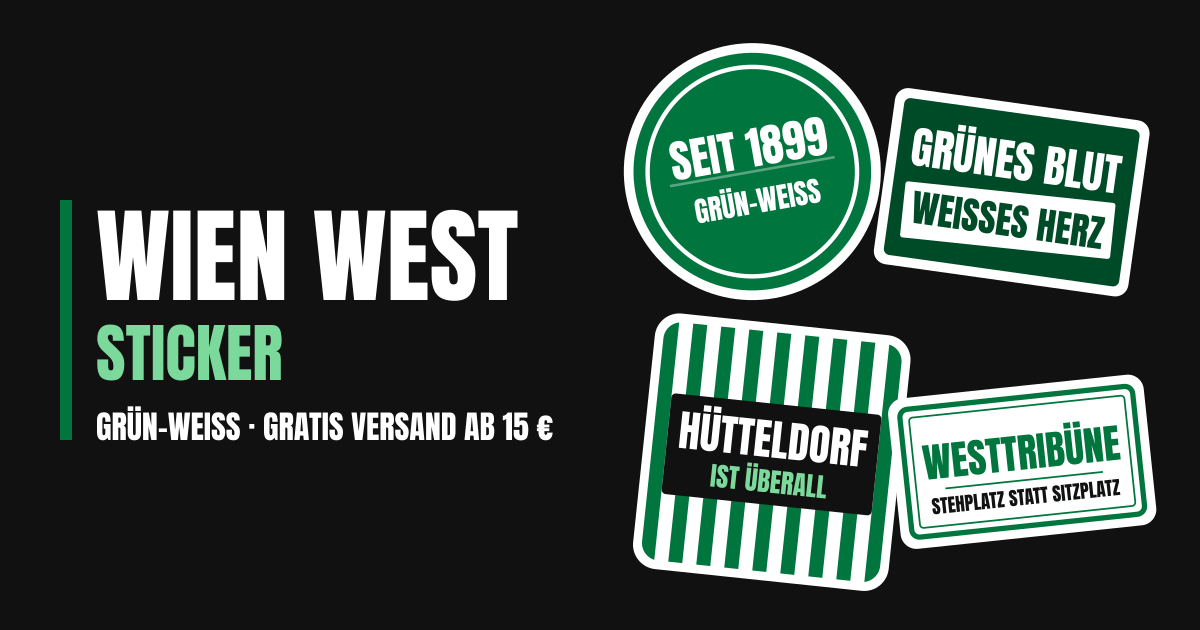
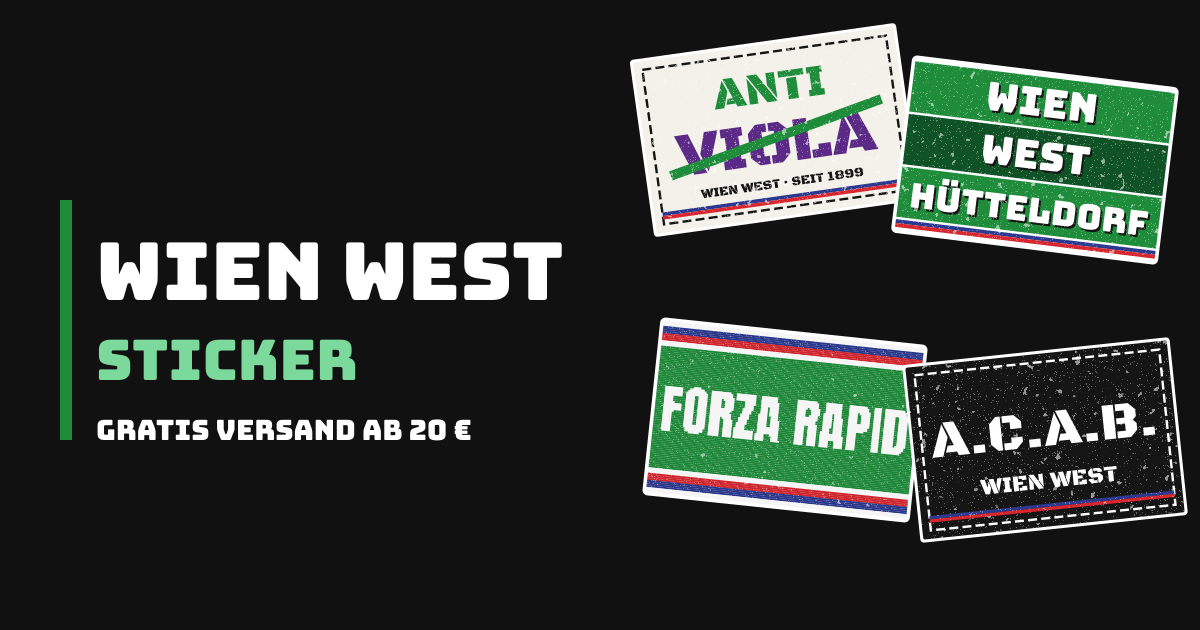
Gratis-Versand ab 20 €, 10er Mix-Pack 20 €
Claude-Session: https://claude.ai/code/session_01FF2MfsrsB5CXejmzawvVj5

diff --git a/src/data/seo.ts b/src/data/seo.ts
@@ -6,7 +6,7 @@ export const KATEGORIE_SEITEN = [
     slug: 'anti-viola-sticker',
     h1: 'Anti Viola Sticker',
     title: 'Anti Viola Sticker & Derby-Aufkleber kaufen | Wien West Sticker',
-    description: 'Anti Viola, Anti Violett, Wien gehört uns & A.C.A.B.: wetterfeste Derby-Sticker 9 × 6 cm ab 2,50 €. Violett immer durchgestrichen. Gratis Versand ab 15 €.',
+    description: 'Anti Viola, Anti Violett, Wien gehört uns & A.C.A.B.: wetterfeste Derby-Sticker 9 × 6 cm ab 2,50 €. Violett immer durchgestrichen. Gratis Versand ab 20 €.',
     keyword: 'anti viola sticker',
     intro: [
       'Vor jedem Wiener Derby wird in Hütteldorf geklebt. Unsere Anti-Viola-Sticker sind dafür gemacht: flacher Siebdruck-Look, Schablonen-Schrift und Violett immer durchgestrichen. Alle Motive kommen im selben Format von 9 × 6 cm, auf wetterfestem Vinyl mit matter Laminierung.',
@@ -22,7 +22,7 @@ export const KATEGORIE_SEITEN = [
     slug: 'forza-rapid-sticker',
     h1: 'Forza Rapid Sticker',
     title: 'Forza Rapid Sticker & Rapid Wien Aufkleber kaufen | Wien West',
-    description: 'Forza Rapid, Rapid Wien, SCR 1899 & You’ll never walk alone: Fan-Sticker im Strick-Schal- und Block-Look, 9 × 6 cm, wetterfest. Gratis Versand ab 15 €.',
+    description: 'Forza Rapid, Rapid Wien, SCR 1899 & You’ll never walk alone: Fan-Sticker im Strick-Schal- und Block-Look, 9 × 6 cm, wetterfest. Gratis Versand ab 20 €.',
     keyword: 'rapid wien sticker',
     intro: [
       'Forza Rapid – der Schlachtruf als Sticker. In dieser Kategorie findest du die Klassiker für alle Grün-Weißen: Strick-Schal-Optik wie der Schal im Kasten, fette Block-Buchstaben auf grünen Streifen und Sprühlack-Schrift mit Farbnasen.',
@@ -70,11 +70,11 @@ export const KATEGORIE_SEITEN = [
     slug: 'sticker-packs',
     h1: 'Sticker-Packs & Sets',
     title: 'Fußball Sticker Pack & Sticker Set kaufen – bis −61 % | Wien West',
-    description: 'Sticker-Packs mit 3, 5, 10, 15, 25 oder 50 Stück: gemischte Grün-Weiß-Motive ab 0,98 € pro Sticker. Das 10er Mix-Pack um 15 € mit Gratis-Versand.',
+    description: 'Sticker-Packs mit 3, 5, 10, 15, 25 oder 50 Stück: gemischte Grün-Weiß-Motive ab 0,98 € pro Sticker. Das 10er Mix-Pack um 20 € mit Gratis-Versand.',
     keyword: 'sticker pack fußball',
     intro: [
       'Mehr kleben, weniger zahlen: Unsere Sticker-Packs mischen die beliebtesten Motive in einem Kuvert. Ideal zum Aufteilen im Bus, am Stammtisch oder im Fanclub.',
-      'Das 10er Mix-Pack kostet 15 € und liegt damit genau an der Grenze zum Gratis-Versand. Beim 50er Block-Pack zahlst du weniger als 1 € pro Sticker.',
+      'Das 10er Mix-Pack kostet 20 € und liegt damit genau an der Grenze zum Gratis-Versand. Beim 50er Block-Pack zahlst du weniger als 1 € pro Sticker.',
     ],
     faq: [
       ['Welche Motive sind in den Packs?', 'Eine Mischung aus allen Kategorien – Anti Viola, Forza Rapid, Wien West Hütteldorf und Kurve. Beim Mystery-Pack werden die Motive zufällig gezogen.'],

diff --git a/docs/kalkulation.md b/docs/kalkulation.md
@@ -10,7 +10,7 @@ Alle Kosten sind **Schätzungen** – vor Start mit Druckerei- und Post-Angebot 
 | Flaggen-Format 9 × 6 cm / Figur 8 × 8 cm | 2,50 € |
 | Schal/Schild-Format 15 × 5 cm | 3,90 € |
 | Mindestbestellwert | 10 € (= 4 Sticker) |
-| Versand AT | 2,90 €, **gratis ab 15 €** |
+| Versand AT | 2,90 €, **gratis ab 20 €** |
 | Versand DE/EU | 4,90 €, gratis ab 30 € |
 | Mengenrabatt Einzel/Groß | ab 5 Stk −10 %, ab 10 Stk −20 % |
 
@@ -20,12 +20,12 @@ Alle Kosten sind **Schätzungen** – vor Start mit Druckerei- und Post-Angebot 
 |---|---|---|---|---|
 | 3er Starter | 6,90 | 7,50 | 8 % | 2,30 |
 | 5er Topseller | 9,90 | 12,50 | 21 % | 1,98 |
-| **10er Mix** | **15,00** | 25,00 | 40 % | 1,50 |
+| **10er Mix** | **20,00** | 25,00 | 20 % | 2,00 |
 | Mystery 15er | 19,00 | 37,50 | 49 % | 1,27 |
 | 25er Kurve | 29,00 | 62,50 | 54 % | 1,16 |
 | 50er Block | 49,00 | 125,00 | 61 % | 0,98 |
 
-Das 10er Mix-Pack liegt exakt auf der Gratis-Versand-Grenze → Hauptprodukt in Hero, Packs-Sektion und Abschluss-CTA.
+Das 10er Mix-Pack (20 €) liegt exakt auf der Gratis-Versand-Grenze (20 €) → Hauptprodukt in Hero, Packs-Sektion und Abschluss-CTA.
 
 ## Stückkosten (Annahmen)
 
@@ -42,7 +42,7 @@ Das 10er Mix-Pack liegt exakt auf der Gratis-Versand-Grenze → Hauptprodukt in 
 | Warenkorb | Kunde zahlt | Netto (÷1,2) | Druck | Verpackung + Porto | Zahlung | **DB** |
 |---|---|---|---|---|---|---|
 | 4 Einzel (MBW) | 10,00 + 2,90 = 12,90 | 10,75 | 1,00 | 2,15 | 0,67 | **6,93 €** |
-| 10er Mix-Pack | 15,00 (gratis Versand) | 12,50 | 2,50 | 2,15 | 0,74 | **7,11 €** |
+| 10er Mix-Pack | 20,00 (gratis Versand) | 16,67 | 2,50 | 2,15 | 0,88 | **11,14 €** |
 | 10 Einzel (−20 %) | 20,00 | 16,67 | 2,50 | 2,15 | 0,88 | **11,14 €** |
 | 25er Kurven-Pack | 29,00 | 24,17 | 6,25 | 2,15 | 1,14 | **14,63 €** |
 | 50er Block-Pack | 49,00 | 40,83 | 12,50 | 2,15 | 1,72 | **24,46 €** |

diff --git a/src/content/sticker/mix-10er.md b/src/content/sticker/mix-10er.md
@@ -1,9 +1,9 @@
 ---
 name: "10er Mix-Pack"
-kurz: "Zehn verschiedene Motive für die nächste Auswärtsfahrt. Mit 15 € genau an der Gratis-Versand-Grenze."
+kurz: "Zehn verschiedene Motive für die nächste Auswärtsfahrt. Mit 20 € genau an der Gratis-Versand-Grenze."
 typ: pack
 kategorie: packs
-preis: 15
+preis: 20
 wertEinzeln: 25
 stueck: 10
 format: "je ca. 9 × 6 cm"
@@ -16,10 +16,10 @@ reihenfolge: 33
 shopifyVariantId: ""
 seo:
   title: "10er Mix-Pack – Rapid Sticker Set kaufen | Wien West"
-  description: "10er Mix-Pack: Zehn verschiedene Motive für die nächste Auswärtsfahrt. Mit 15 € genau an der Gratis-Versand-Grenze. Gratis Versand ab 15 €."
+  description: "10er Mix-Pack: Zehn verschiedene Motive für die nächste Auswärtsfahrt. Mit 20 € genau an der Gratis-Versand-Grenze. Gratis Versand ab 20 €."
   noindex: false
 ---
-Zehn verschiedene Motive für die nächste Auswärtsfahrt. Mit 15 € genau an der Gratis-Versand-Grenze.
+Zehn verschiedene Motive für die nächste Auswärtsfahrt. Mit 20 € genau an der Gratis-Versand-Grenze.
 
 Im 10er Mix-Pack stecken 10 Rapid-Fan-Sticker im Kurven-Look, gemischt aus allen Kategorien – ideal zum Aufteilen im Fanclub oder auf der Auswärtsfahrt.
 

diff --git a/src/content/seiten/agb.md b/src/content/seiten/agb.md
@@ -7,7 +7,7 @@ titel: AGB & Widerruf
 Mit Klick auf „Zahlungspflichtig bestellen“ gibst du ein verbindliches Angebot ab. Der Vertrag kommt mit unserer Bestätigungs-E-Mail zustande.
 
 ## Preise & Versand
-Alle Preise in Euro inkl. 20 % USt. Mindestbestellwert 10 €. Versand Österreich 2,90 €, gratis ab 15 €.
+Alle Preise in Euro inkl. 20 % USt. Mindestbestellwert 10 €. Versand Österreich 2,90 €, gratis ab 20 €.
 
 ## Widerrufsrecht
 Du kannst innerhalb von 14 Tagen ohne Angabe von Gründen vom Vertrag zurücktreten. Ware unbenutzt und ungeklebt zurücksenden. Rücksendekosten trägst du.

diff --git a/src/content/sticker/ynwa.md b/src/content/sticker/ynwa.md
@@ -15,7 +15,7 @@ reihenfolge: 13
 shopifyVariantId: ""
 seo:
   title: "You’ll never walk alone Sticker kaufen – Rapid Aufkleber | Wien West"
-  description: "You’ll never walk alone: Streifen-Look mit grün-blau-roten Linien, wie man ihn vom Geländer kennt. 9 × 6 cm, wetterfest, 2,50 €. Gratis Versand ab 15 €."
+  description: "You’ll never walk alone: Streifen-Look mit grün-blau-roten Linien, wie man ihn vom Geländer kennt. 9 × 6 cm, wetterfest, 2,50 €. Gratis Versand ab 20 €."
   noindex: false
 ---
 Streifen-Look mit grün-blau-roten Linien, wie man ihn vom Geländer kennt.

diff --git a/src/content/sticker/kurve-25er.md b/src/content/sticker/kurve-25er.md
@@ -16,7 +16,7 @@ reihenfolge: 34
 shopifyVariantId: ""
 seo:
   title: "25er Kurven-Pack – Rapid Sticker Set kaufen | Wien West"
-  description: "25er Kurven-Pack: Für Fanclubs, Stammtische und alle, die auf dem Weg ins Weststadion mehr als einen Laternenmast bekleben. Gratis Versand ab 15 €."
+  description: "25er Kurven-Pack: Für Fanclubs, Stammtische und alle, die auf dem Weg ins Weststadion mehr als einen Laternenmast bekleben. Gratis Versand ab 20 €."
   noindex: false
 ---
 Für Fanclubs, Stammtische und alle, die auf dem Weg ins Weststadion mehr als einen Laternenmast bekleben.

diff --git a/src/content/sticker/antiviola-schwein.md b/src/content/sticker/antiviola-schwein.md
@@ -15,7 +15,7 @@ reihenfolge: 15
 shopifyVariantId: ""
 seo:
   title: "Antiviola – Schwein Sticker kaufen – Rapid Aufkleber | Wien West"
-  description: "Antiviola – Schwein: Violettes Schwein, grün durchgestrichen. Antiviola im alten Siebdruck-Look. 9 × 6 cm, wetterfest, 2,50 €. Gratis Versand ab 15 €."
+  description: "Antiviola – Schwein: Violettes Schwein, grün durchgestrichen. Antiviola im alten Siebdruck-Look. 9 × 6 cm, wetterfest, 2,50 €. Gratis Versand ab 20 €."
   noindex: false
 ---
 Violettes Schwein, grün durchgestrichen. Antiviola im alten Siebdruck-Look.

diff --git a/src/content/sticker/wien-west-huetteldorf.md b/src/content/sticker/wien-west-huetteldorf.md
@@ -15,7 +15,7 @@ reihenfolge: 16
 shopifyVariantId: ""
 seo:
   title: "Wien West Hütteldorf Sticker kaufen – Rapid Aufkleber | Wien West"
-  description: "Wien West Hütteldorf: Wien West Hütteldorf – drei Zeilen auf Block-Streifen mit Blau-Rot-Band. 9 × 6 cm, wetterfest, 2,50 €. Gratis Versand ab 15 €."
+  description: "Wien West Hütteldorf: Wien West Hütteldorf – drei Zeilen auf Block-Streifen mit Blau-Rot-Band. 9 × 6 cm, wetterfest, 2,50 €. Gratis Versand ab 20 €."
   noindex: false
 ---
 Wien West Hütteldorf – drei Zeilen auf Block-Streifen mit Blau-Rot-Band.

diff --git a/src/content/sticker/wien-nuernberg-schal.md b/src/content/sticker/wien-nuernberg-schal.md
@@ -15,7 +15,7 @@ reihenfolge: 27
 shopifyVariantId: ""
 seo:
   title: "Wien – Nürnberg Sticker kaufen – Rapid Aufkleber | Wien West"
-  description: "Wien – Nürnberg: Halb grün-weiß, halb schwarz-rot – für die Fanfreundschaft mit Franken. 9 × 6 cm, wetterfest, 2,50 €. Gratis Versand ab 15 €."
+  description: "Wien – Nürnberg: Halb grün-weiß, halb schwarz-rot – für die Fanfreundschaft mit Franken. 9 × 6 cm, wetterfest, 2,50 €. Gratis Versand ab 20 €."
   noindex: false
 ---
 Halb grün-weiß, halb schwarz-rot – für die Fanfreundschaft mit Franken.

diff --git a/src/content/sticker/wien-gruen-weiss.md b/src/content/sticker/wien-gruen-weiss.md
@@ -15,7 +15,7 @@ reihenfolge: 6
 shopifyVariantId: ""
 seo:
   title: "Wien ist grün & weiß! Sticker kaufen – Rapid Aufkleber | Wien West"
-  description: "Wien ist grün & weiß!: Kappe auf, Tuch vorm Gesicht, Finger nach vorn: Wien ist grün & weiß! 9 × 6 cm, wetterfest, 2,50 €. Gratis Versand ab 15 €."
+  description: "Wien ist grün & weiß!: Kappe auf, Tuch vorm Gesicht, Finger nach vorn: Wien ist grün & weiß! 9 × 6 cm, wetterfest, 2,50 €. Gratis Versand ab 20 €."
   noindex: false
 ---
 Kappe auf, Tuch vorm Gesicht, Finger nach vorn: Wien ist grün & weiß!

diff --git a/src/content/sticker/derbysieger-schal.md b/src/content/sticker/derbysieger-schal.md
@@ -15,7 +15,7 @@ reihenfolge: 5
 shopifyVariantId: ""
 seo:
   title: "Derbysieger – Schal Sticker kaufen – Rapid Aufkleber | Wien West"
-  description: "Derbysieger – Schal: Strick-Optik wie der Schal im Kasten – für den Montag nach dem Derby. 9 × 6 cm, wetterfest, 2,50 €. Gratis Versand ab 15 €."
+  description: "Derbysieger – Schal: Strick-Optik wie der Schal im Kasten – für den Montag nach dem Derby. 9 × 6 cm, wetterfest, 2,50 €. Gratis Versand ab 20 €."
   noindex: false
 ---
 Strick-Optik wie der Schal im Kasten – für den Montag nach dem Derby.

diff --git a/src/content/sticker/weststadion.md b/src/content/sticker/weststadion.md
@@ -15,7 +15,7 @@ reihenfolge: 22
 shopifyVariantId: ""
 seo:
   title: "Weststadion Sticker kaufen – Rapid Aufkleber | Wien West"
-  description: "Weststadion: Für das Wohnzimmer in Hütteldorf. Streifen-Look mit grün-blau-roten Linien. 9 × 6 cm, wetterfest, 2,50 €. Gratis Versand ab 15 €."
+  description: "Weststadion: Für das Wohnzimmer in Hütteldorf. Streifen-Look mit grün-blau-roten Linien. 9 × 6 cm, wetterfest, 2,50 €. Gratis Versand ab 20 €."
   noindex: false
 ---
 Für das Wohnzimmer in Hütteldorf. Streifen-Look mit grün-blau-roten Linien.
